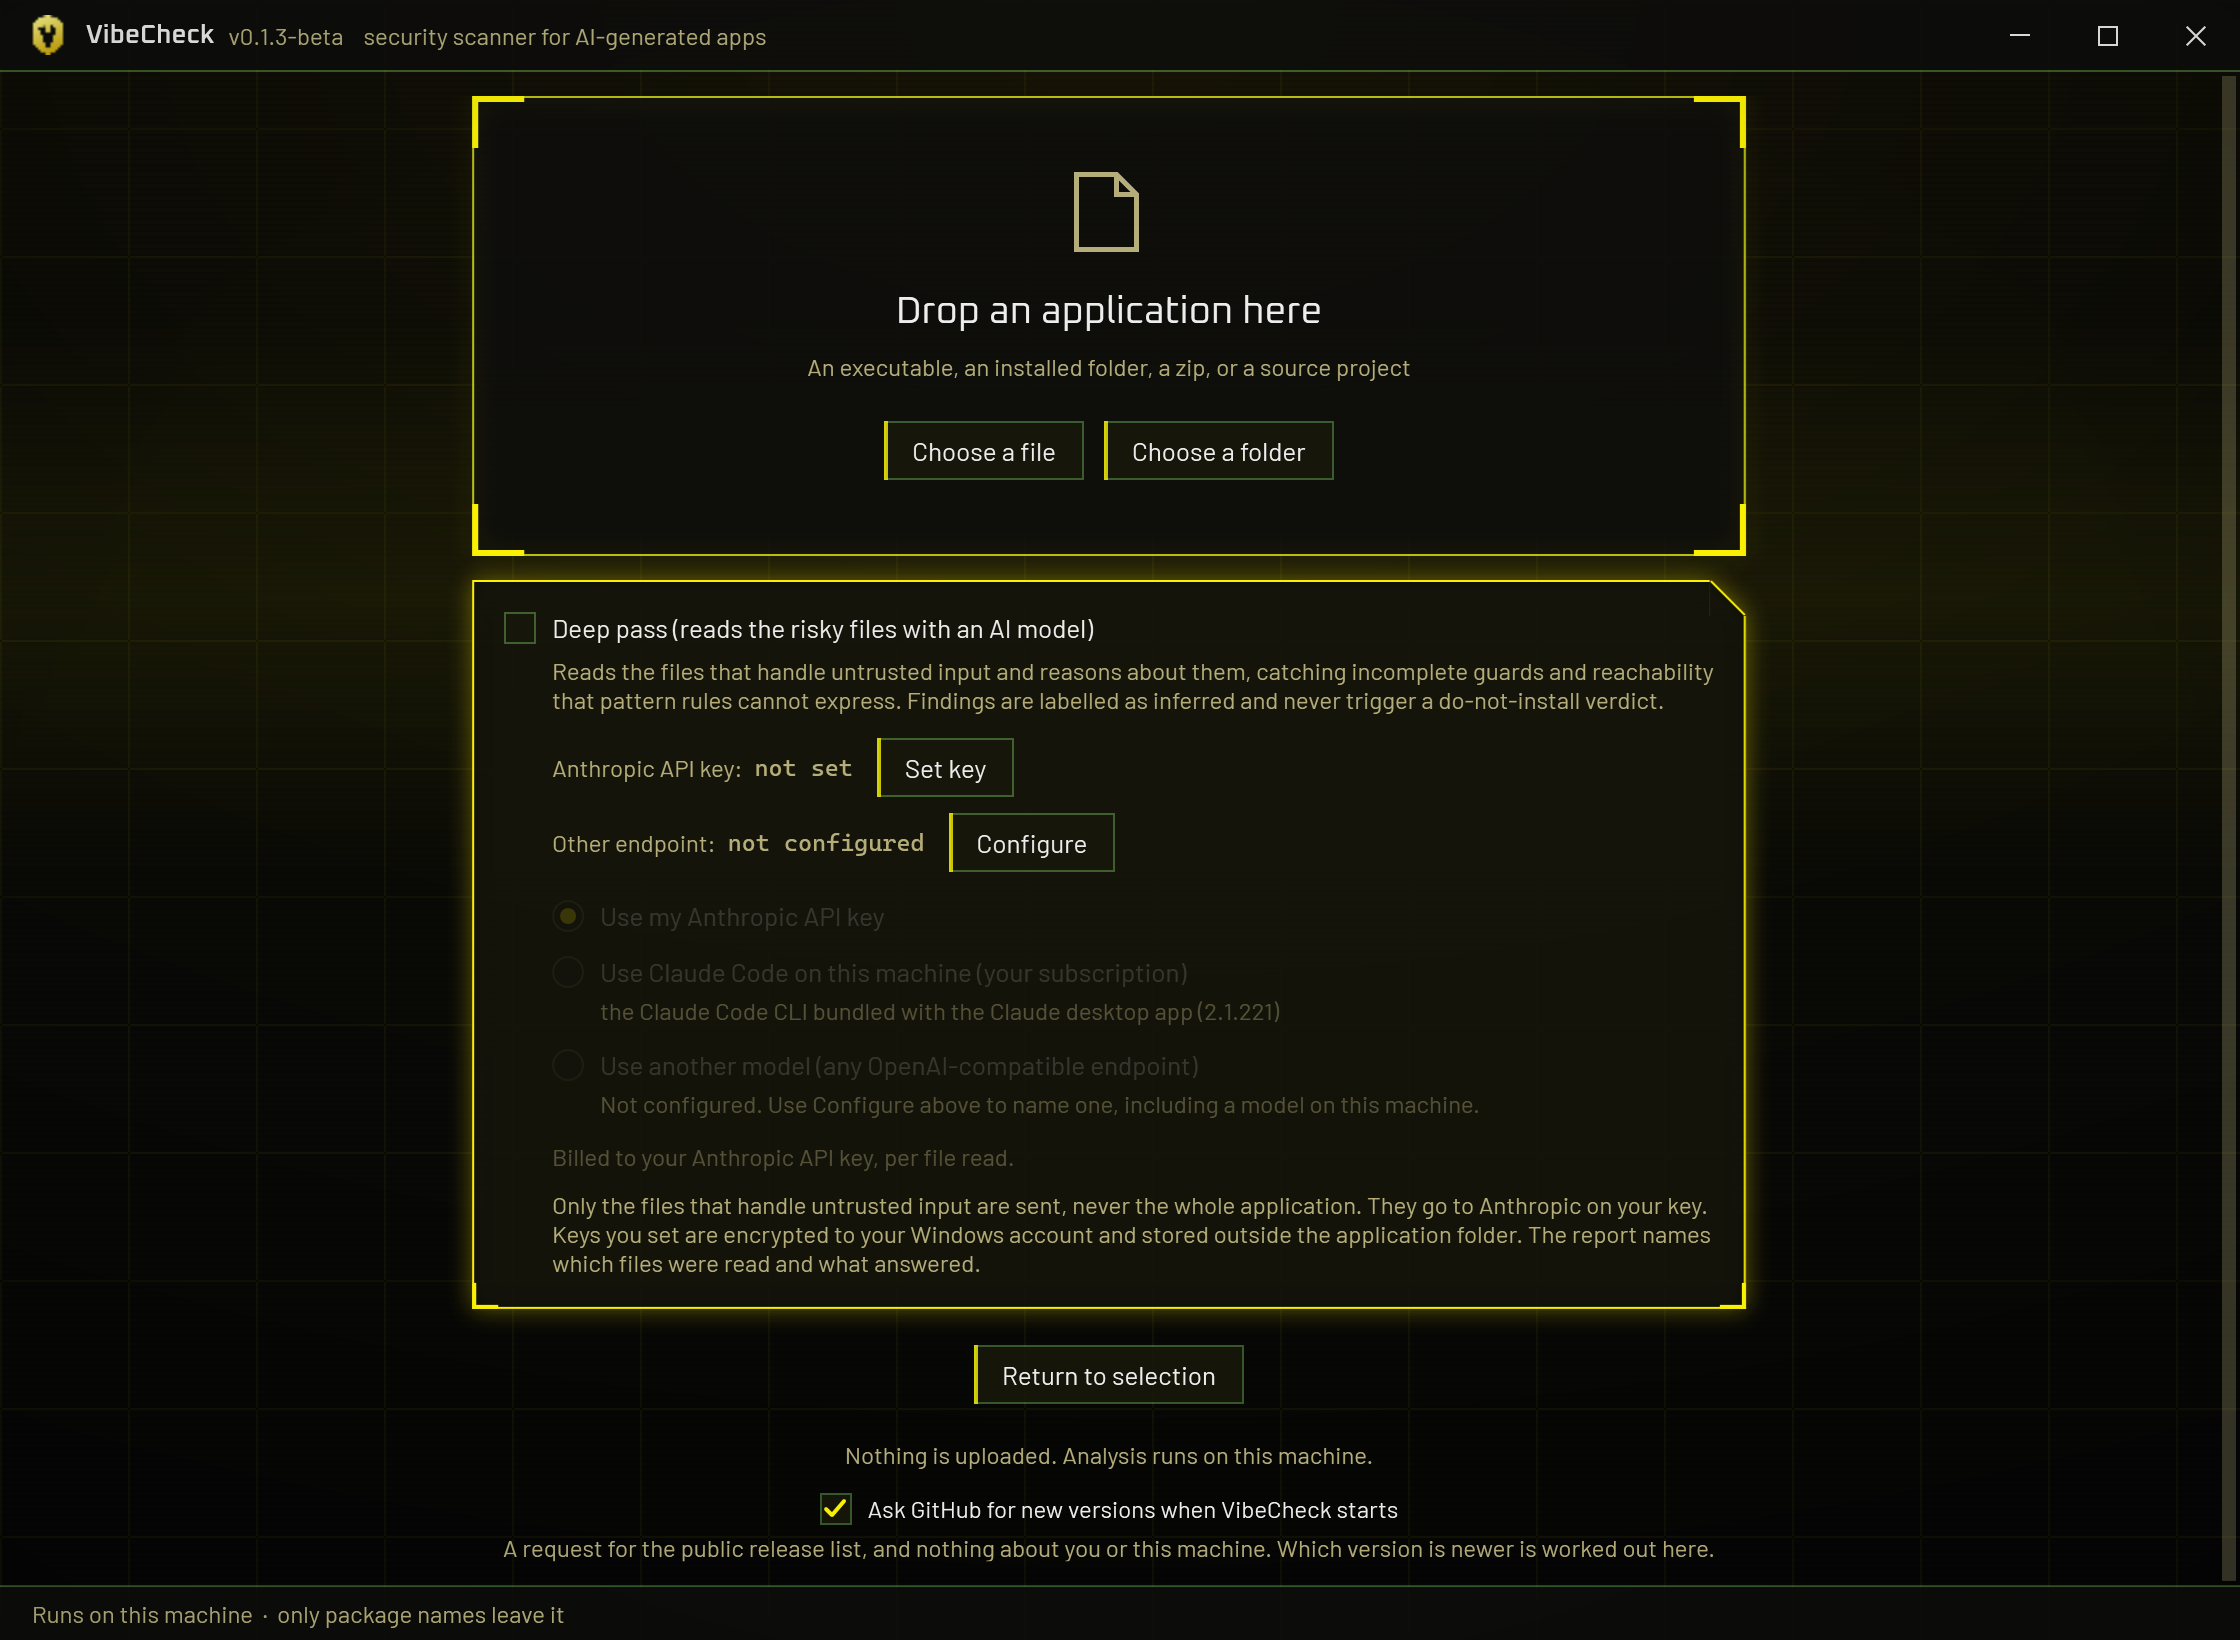
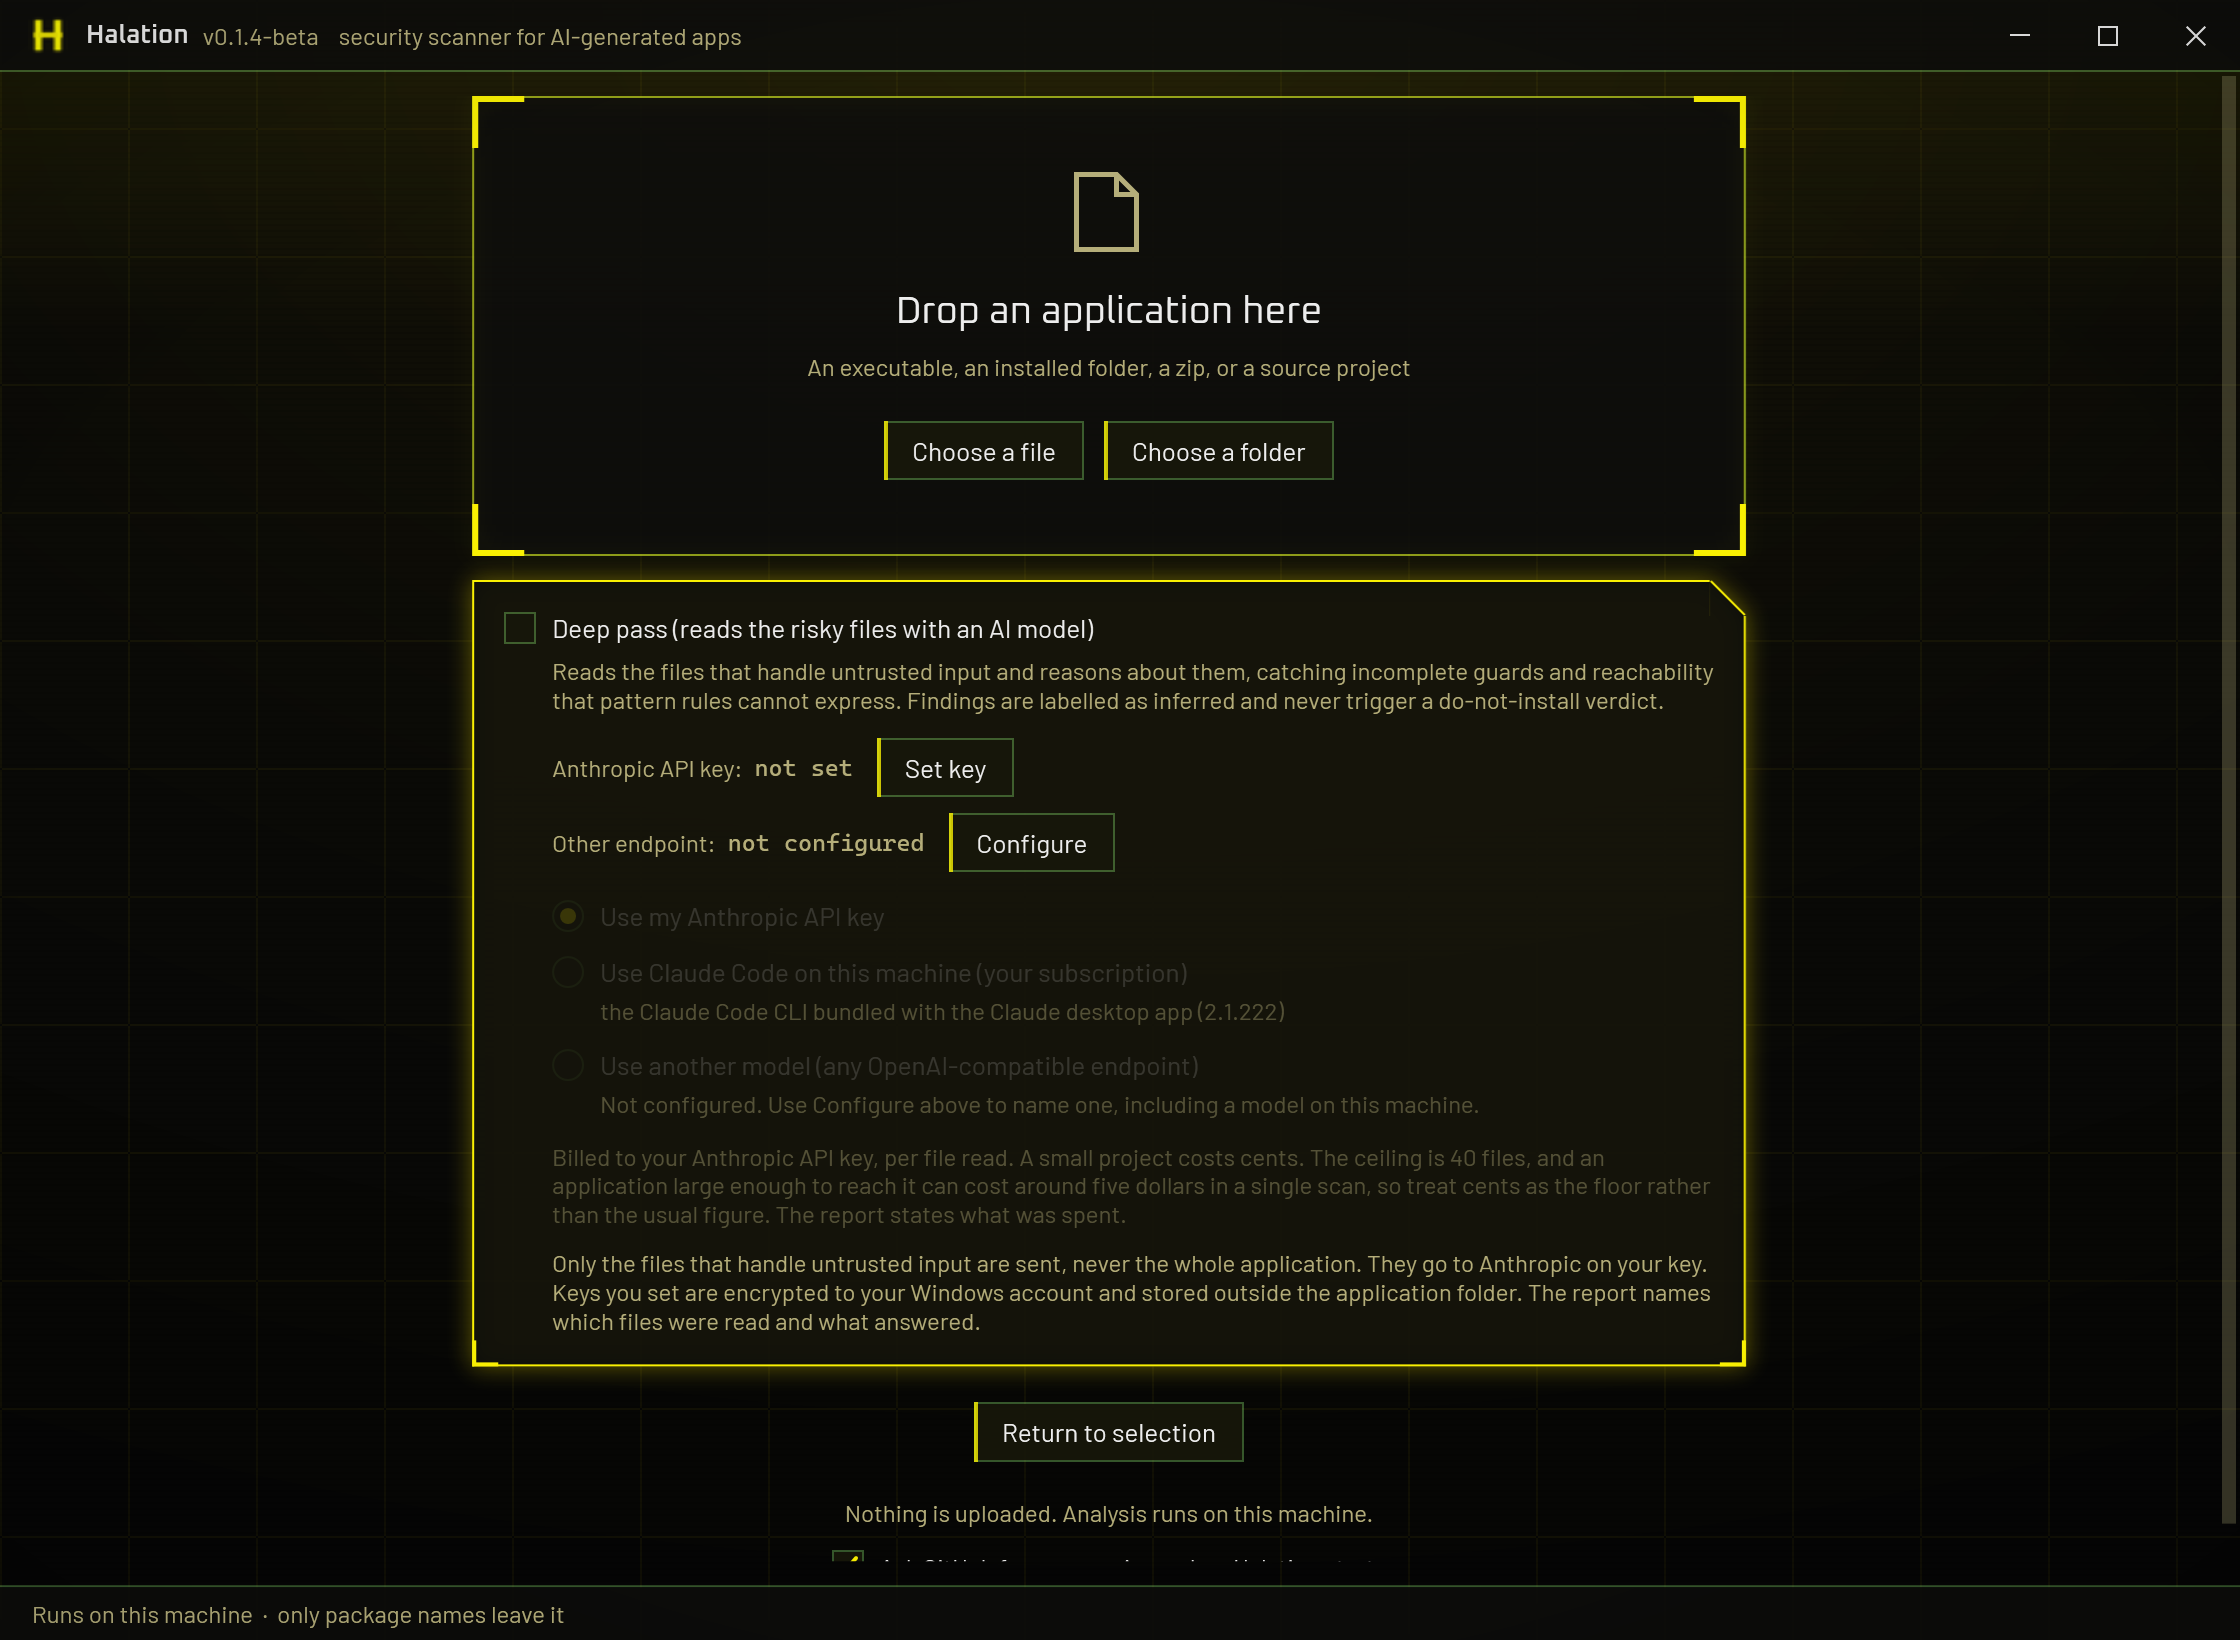
Retake the screenshots against the renamed build
All five are real renders of the real windows, captured off every
monitor with ShowActivated false so nothing takes focus. The results
shot is a genuine scan of a rebuilt demonstration project, which is why
the advisory counts are real; that project stays out of this repository
because it carries live-shaped credentials.

Also corrects two things that were already wrong:

- The pre-scan window's alt text described a deep pass tick box with
  three sources. That control is on the drop screen and has never been
  in this window
- The endpoint window is 1908 tall now rather than 1715, so the declared
  height was reserving the wrong space

The readme's images were GitHub upload URLs showing the old branding.
They now point at the files in docs/, which are versioned with the code.

diff --git a/docs/setup.html b/docs/setup.html
@@ -227,7 +227,7 @@
       </p>
       <figure>
         <div class="shot" style="--natural:560px">
-          <img src="assets/img/screen-setup.png" alt="The pre-scan window with an unticked deep pass box, showing the three sources: use my Anthropic API key, use Claude Code on this machine, or use another model at any OpenAI-compatible endpoint." width="1120" height="955" loading="lazy">
+          <img src="assets/img/screen-setup.png" alt="The pre-scan window, naming the application about to be scanned and asking what kind of application it is, with seven options and a note that nothing chosen here excuses anything on its own." width="1120" height="956" loading="lazy">
         </div>
         <figcaption class="shot__caption">The pre-scan window. The three radio buttons are the three routes.</figcaption>
       </figure>
@@ -287,7 +287,7 @@
       </ol>
       <figure>
         <div class="shot" style="--natural:560px">
-          <img src="assets/img/screen-apikey.png" alt="The Halation API key window, with a masked entry field and a note explaining that the key is encrypted to your Windows account and stored outside the application folder." width="1120" height="605" loading="lazy">
+          <img src="assets/img/screen-apikey.png" alt="The Halation API key window, with a masked entry field and a note explaining that the key is encrypted to your Windows account and stored outside the application folder." width="1120" height="606" loading="lazy">
         </div>
         <figcaption class="shot__caption">The key is masked on screen and never written into a report.</figcaption>
       </figure>
@@ -329,7 +329,7 @@
       </p>
       <figure>
         <div class="shot" style="--natural:600px">
-          <img src="assets/img/screen-endpoint.png" alt="The Halation endpoint configuration window. It names the detected graphics card and system memory, offers an editable video memory figure, and recommends the largest model that fits, giving the fetch command for both Ollama and LM Studio with the download size. Below that are ten provider presets and the endpoint, model and key fields." width="1200" height="1715" loading="lazy">
+          <img src="assets/img/screen-endpoint.png" alt="The Halation endpoint configuration window. It names the detected graphics card and system memory, offers an editable video memory figure, and recommends the largest model that fits, giving the fetch command for both Ollama and LM Studio with the download size. Below that are ten provider presets and the endpoint, model and key fields." width="1200" height="1908" loading="lazy">
         </div>
         <figcaption class="shot__caption">The endpoint window, sizing a model against the card it found.</figcaption>
       </figure>

diff --git a/docs/index.html b/docs/index.html
@@ -260,7 +260,7 @@
 
     <figure class="reveal" style="margin-top:3rem">
       <div class="shot shot--crop" style="--natural:1120px;--crop:760px">
-        <img src="assets/img/screen-results.png" alt="The Halation results screen showing a score of 11 out of 100 labelled Critical issues, a coverage card reading 100% readable, and a findings list naming a live Stripe secret key, a Supabase service_role key, SQL queries built by string concatenation, and four dependencies with known vulnerabilities." width="2240" height="2360" loading="lazy">
+        <img src="assets/img/screen-results.png" alt="The Halation results screen showing a score of 11 out of 100 labelled Critical issues, a coverage card reading 100% readable, and a findings list naming an AWS access key, a live Stripe secret key, a Supabase service_role key, SQL queries built by string concatenation, and six dependencies with known vulnerabilities." width="2240" height="2360" loading="lazy">
       </div>
       <figcaption class="shot__caption">The developer's report. The end user's names the same evidence differently.</figcaption>
     </figure>
@@ -387,7 +387,7 @@
 
     <figure class="reveal" style="margin-top:2.5rem">
       <div class="shot" style="--natural:560px">
-        <img src="assets/img/screen-setup.png" alt="The Halation pre-scan window, offering a deep pass tick box with three sources: an Anthropic API key, Claude Code on this machine, or any OpenAI-compatible endpoint." width="1120" height="955" loading="lazy">
+        <img src="assets/img/screen-setup.png" alt="The Halation pre-scan window, naming the application about to be scanned and asking what kind of application it is, with seven options and a note that nothing chosen here excuses anything on its own." width="1120" height="956" loading="lazy">
       </div>
       <figcaption class="shot__caption">Asked before the scan, so the choice applies to this one.</figcaption>
     </figure>

diff --git a/README.md b/README.md
@@ -1,7 +1,7 @@
 
 <div align="center">
 
-<img width="250" height="249" alt="Halation" src="https://github.com/user-attachments/assets/aa308adb-666b-4136-8c52-a6c7b9152359" />
+<img width="200" height="200" alt="Halation" src="docs/assets/img/logo.png" />
 
 # Halation
 [![License](https://img.shields.io/github/license/kailoren/halation?style=plastic)](LICENSE)
@@ -22,7 +22,7 @@ advisories, and that can be turned off entirely. Your code is never uploaded. Ha
 asks GitHub what the newest release is when it starts, which sends nothing at all and is
 likewise switchable.
 
-<img width="1116" height="815" alt="mainscreen" src="https://github.com/user-attachments/assets/c418a6d9-0c95-49c2-92fd-b0e18dbf6ecb" />
+<img width="1120" height="820" alt="The Halation drop screen, waiting for an application to be dragged onto it." src="docs/assets/img/screen-drop.png" />
 
 ## Who it is for
 
@@ -76,7 +76,7 @@ So Halation does not print a verdict of "safe". It reports:
 An explicit "do not install" is triggered only by specific, high-confidence deterministic
 rules, never by the score alone.
 
-<img width="1114" height="1038" alt="scanresults" src="https://github.com/user-attachments/assets/194d0b7d-7bd6-423d-b2d1-c5d0ffc90ad5" />
+<img width="1120" height="1180" alt="The results screen scoring an example project 11 out of 100, labelled Critical issues, with fourteen findings listed beneath." src="docs/assets/img/screen-results.png" />
 
 ## Recovery depth by artifact type
 
@@ -151,7 +151,7 @@ not run is never mistaken for one that came back clean.
 
 ## Optional deep pass
 
-<img width="1120" height="997" alt="Screenshot 2026-08-06 224153" src="https://github.com/user-attachments/assets/5b003aec-85b2-47b4-94f2-c4d41b038b23" />
+<img width="1200" height="1908" alt="The deep pass endpoint window, naming the detected graphics card and recommending the largest local model that fits it." src="docs/assets/img/screen-endpoint.png" />
 
 The main scan is free, needs no account, and sends nothing but package names. Optionally, a
 second deep pass reads the code and reasons about it, which is what catches the things a pattern
